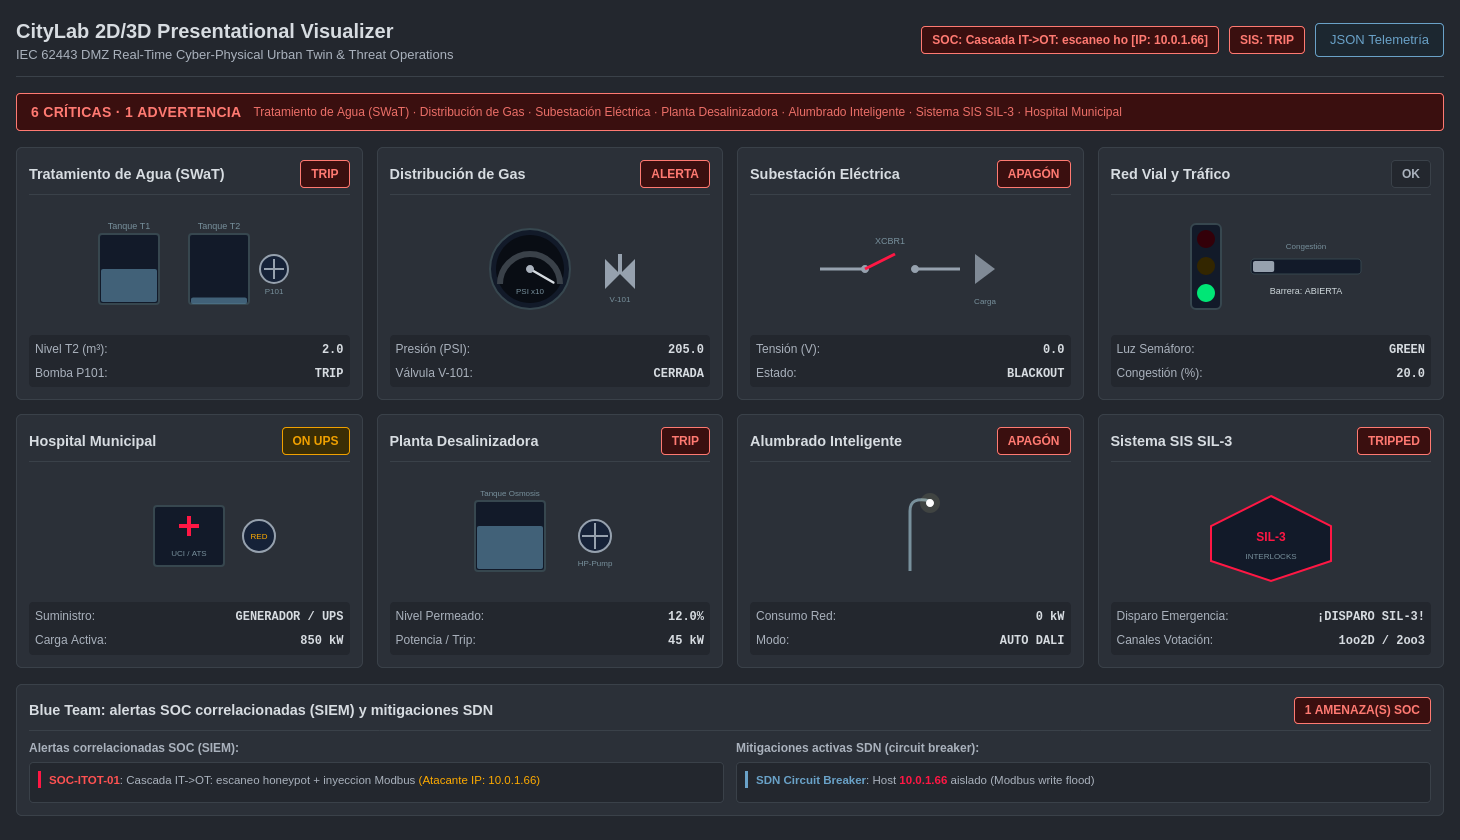
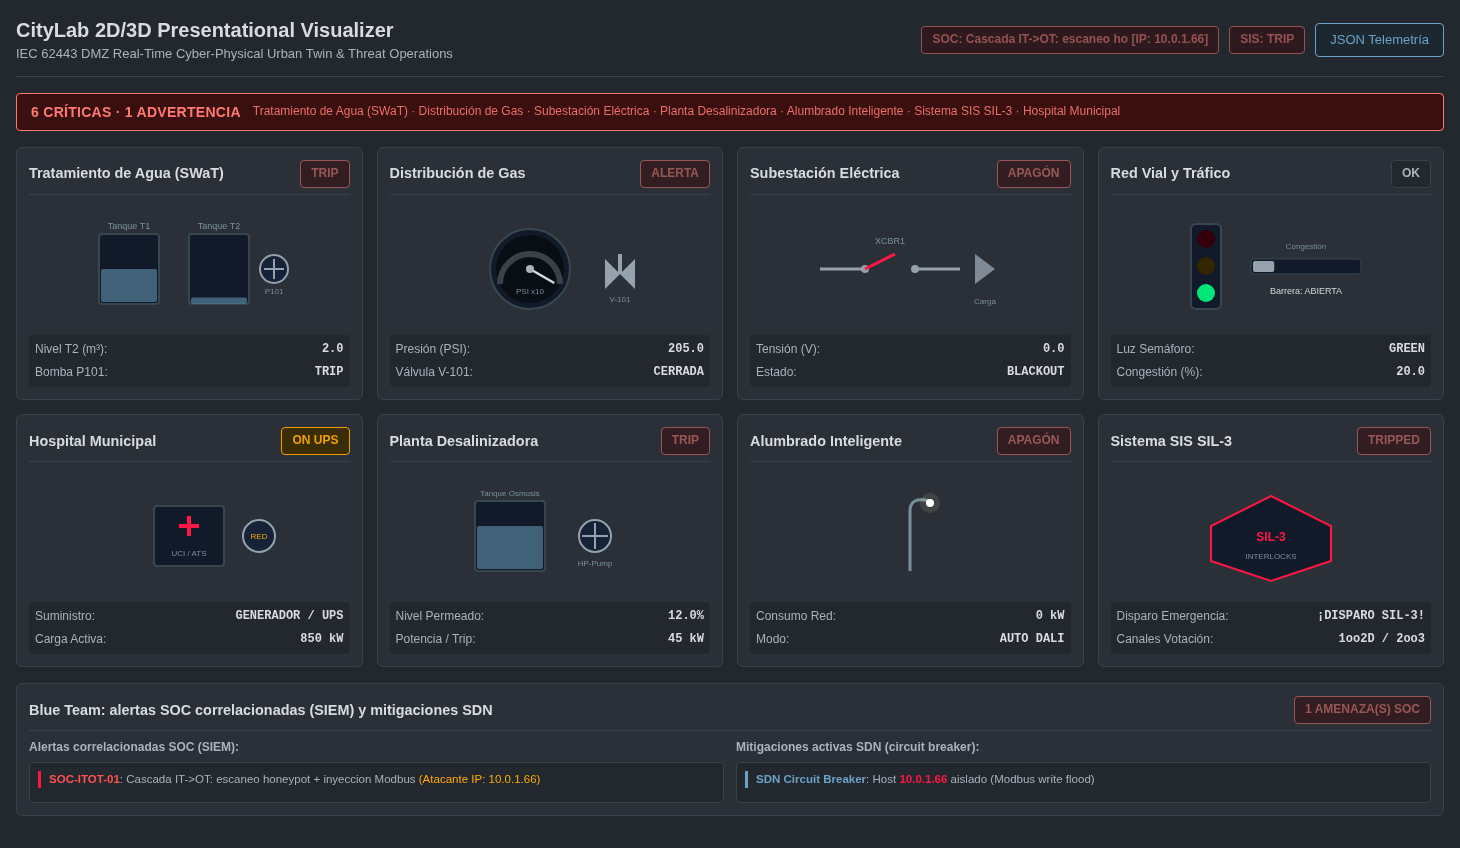
test(ui): E2E Playwright reproducible de la banda de alarmas ISA-101 y sus capturas
Agrega scripts/ui_e2e_test.py: verificacion de UI autocontenida que levanta
viz_server y hmi_server (sin root ni Mininet), los alimenta con un stub SCADA
embebido, y comprueba con Playwright el camino de polling en vivo: la banda L1
transiciona gris->rojo/ambar->gris al cambiar el estado del servidor, y los
mimicos siempre-activos quedan muteados mientras el verde del semaforo se
preserva (16 verificaciones). Con --screenshots regenera las tres imagenes del
README ajustadas al contenido, tomando la de alarma con la cascada ya renderizada.

El driver corre aislado en un entorno uv con Playwright/Chromium, sin tocar las
dependencias system-python del proyecto; no forma parte de ./citylab.sh test. El
import de playwright esta diferido dentro de run(), asi que el modulo es seguro
de importar sin el paquete.

Documenta el flujo en docs/UI_TESTING.md con punteros desde CLAUDE.md y el README.
Capturas regeneradas con el propio script para que lo commiteado coincida con lo
documentado.

diff --git a/scripts/ui_e2e_test.py b/scripts/ui_e2e_test.py
@@ -1,0 +1,254 @@
+#!/usr/bin/env python3
+"""Verificación E2E de la UI ISA-101 (banda de alarmas L1 y reserva de color) con Playwright.
+
+Ejercita el camino de polling en vivo: el estado cambia en el servidor y el `fetch` de la
+propia página lo recoge, transicionando la banda L1 gris -> rojo/ámbar -> gris. Cubre el
+Visualizador 2D (`viz_server`) y el HMI Industrial (`hmi_server`).
+
+Los servidores corren bajo este mismo intérprete (solo usan la stdlib más el paquete local
+`network`, vía PYTHONPATH); el driver Playwright corre en el entorno `uv`. Un stub SCADA
+embebido (hilo HTTP en el propio proceso) alimenta al HMI y se conmuta a LOSS_OF_VIEW para
+probar la transición, sin depender del laboratorio Mininet ni de root.
+
+Requisitos (una sola vez, requiere red):
+    uv run --with playwright -- playwright install chromium
+
+Uso:
+    uv run --with playwright -- python scripts/ui_e2e_test.py              # corre las aserciones
+    uv run --with playwright -- python scripts/ui_e2e_test.py --screenshots docs/img
+
+Sale con código 1 si alguna aserción falla. No forma parte de `./citylab.sh test` (la suite
+unitaria se mantiene sin dependencias de navegador); es una verificación de UI opcional.
+"""
+from __future__ import annotations
+
+import argparse
+import json
+import os
+import subprocess
+import sys
+import threading
+import time
+import urllib.request
+from http.server import BaseHTTPRequestHandler, HTTPServer
+from pathlib import Path
+
+ROOT = Path(__file__).resolve().parent.parent
+VIZ_PORT, HMI_PORT, STUB_PORT = 18190, 18191, 18192
+
+# Stub SCADA en proceso: sirve telemetría normal, o LOSS_OF_VIEW en el sector de agua cuando
+# el test conmuta el modo. Deja al HMI mostrar SCADA ONLINE sin el laboratorio real.
+_STUB_MODE = {"mode": "normal"}
+_NORMAL_TELEMETRY = {
+    "status": "ONLINE",
+    "sectors": {
+        "water": {"status": "ONLINE", "t1_level": 10.0, "t2_level": 15.0, "actuator_running": True},
+        "gas": {"status": "ONLINE", "pressure_psi": 145.0, "actuator_running": True},
+        "elec": {"status": "ONLINE", "grid_voltage": 230.0, "actuator_running": True},
+        "transport": {"status": "ONLINE", "traffic_light": 2, "actuator_running": True},
+    },
+}
+
+
+class _StubHandler(BaseHTTPRequestHandler):
+    def do_GET(self) -> None:
+        data = json.loads(json.dumps(_NORMAL_TELEMETRY))
+        if _STUB_MODE["mode"] == "lov":
+            data["sectors"]["water"]["status"] = "LOSS_OF_VIEW"
+        body = json.dumps(data).encode("utf-8")
+        self.send_response(200)
+        self.send_header("Content-Type", "application/json")
+        self.send_header("Content-Length", str(len(body)))
+        self.end_headers()
+        self.wfile.write(body)
+
+    def log_message(self, *args) -> None:
+        pass
+
+
+def _start_stub() -> HTTPServer:
+    srv = HTTPServer(("127.0.0.1", STUB_PORT), _StubHandler)
+    threading.Thread(target=srv.serve_forever, daemon=True).start()
+    return srv
+
+
+def _wait_http(url: str, tries: int = 200) -> bool:
+    for _ in range(tries):
+        try:
+            urllib.request.urlopen(url, timeout=0.5)
+            return True
+        except Exception:
+            time.sleep(0.05)
+    return False
+
+
+def _post(url: str, payload: dict) -> None:
+    req = urllib.request.Request(url, data=json.dumps(payload).encode(),
+                                 headers={"Content-Type": "application/json"})
+    urllib.request.urlopen(req, timeout=2).close()
+
+
+def _shot(page, path: str) -> None:
+    """Captura ajustada al contenido: mide el alto real con un viewport corto (scrollHeight
+    queda clampeado al viewport si el contenido es más bajo) y lo fija antes de capturar, así
+    no queda lienzo muerto al pie. La rejilla reflota por ancho, no por alto."""
+    page.set_viewport_size({"width": 1460, "height": 200})
+    height = page.evaluate("Math.ceil(document.documentElement.scrollHeight)")
+    page.set_viewport_size({"width": 1460, "height": height})
+    page.screenshot(path=path)
+
+
+def _spawn(script: str, *args: str) -> subprocess.Popen:
+    cmd = [sys.executable, str(ROOT / "network" / script), "--host", "127.0.0.1", *args]
+    return subprocess.Popen(cmd, cwd=str(ROOT), env=dict(os.environ, PYTHONPATH=str(ROOT)),
+                            stdout=subprocess.DEVNULL, stderr=subprocess.DEVNULL)
+
+
+# Cascada IT->OT usada tanto por las aserciones como por la captura de alarma.
+_CASCADE = {"sectors": {"water": {"alert": True, "pump_running": False, "tank_level": 2.0},
+                        "gas": {"alert": True, "pressure_psi": 205.0, "valve_open": False},
+                        "elec": {"blackout": True, "grid_voltage": 0.0},
+                        "hospital": {"generator_active": True},
+                        "desal": {"pump_trip": True, "tank_level_pct": 12.0, "power_kw": 0},
+                        "lighting": {"power_kw": 0, "blackout": True},
+                        "safety": {"sis_trip": True}}}
+_SOC = {"alert_id": "SOC-ITOT-01", "name": "Cascada IT->OT: escaneo honeypot + inyeccion Modbus",
+        "attacker_ip": "10.0.1.66", "severity": "CRITICAL"}
+_SDN = {"mechanism": "SDN Circuit Breaker", "offending_ip": "10.0.1.66",
+        "action": "ISOLATE", "rule": "Modbus write flood"}
+_NORMAL = {"sectors": {"water": {"alert": False, "pump_running": True},
+                       "gas": {"alert": False, "pressure_psi": 145.0, "valve_open": True},
+                       "elec": {"blackout": False, "grid_voltage": 230.0},
+                       "hospital": {"generator_active": False},
+                       "desal": {"pump_trip": False, "tank_level_pct": 75.0, "power_kw": 45},
+                       "lighting": {"power_kw": 120, "blackout": False},
+                       "safety": {"sis_trip": False}}}
+
+
+def run(screenshots_dir: str | None) -> int:
+    results: list[tuple[str, bool]] = []
+
+    def check(name: str, cond: bool) -> None:
+        results.append((name, bool(cond)))
+        print(("PASS " if cond else "FAIL ") + name)
+
+    stub = _start_stub()
+    procs = [
+        _spawn("viz_server.py", "--port", str(VIZ_PORT)),
+        _spawn("hmi_server.py", "--port", str(HMI_PORT), "--scada-url", f"http://127.0.0.1:{STUB_PORT}"),
+    ]
+    viz_url = f"http://127.0.0.1:{VIZ_PORT}"
+    hmi_url = f"http://127.0.0.1:{HMI_PORT}"
+    try:
+        assert _wait_http(viz_url + "/"), "viz_server no levantó"
+        assert _wait_http(hmi_url + "/"), "hmi_server no levantó"
+
+        from playwright.sync_api import sync_playwright
+
+        with sync_playwright() as p:
+            browser = p.chromium.launch(headless=True)
+            page = browser.new_page(viewport={"width": 1460, "height": 900})
+
+            # ---------------- Visualizador 2D ----------------
+            page.goto(viz_url + "/")
+            page.wait_for_load_state("networkidle")
+
+            if screenshots_dir:
+                _shot(page, str(Path(screenshots_dir) / "viz-normal.png"))
+
+            check("viz banda normal = gris (alarm-band-ok)",
+                  "alarm-band-ok" in (page.locator("#alarm-band").get_attribute("class") or ""))
+            check("viz banda normal = SIN ALARMAS ACTIVAS",
+                  page.locator("#alarm-band-count").inner_text().strip() == "SIN ALARMAS ACTIVAS")
+            check("viz aguja de gas muteada (#d7dce1)",
+                  page.eval_on_selector("#svg-gas-needle", "e => e.getAttribute('stroke')") == "#d7dce1")
+            check("viz manómetro de gas sin arcos de semáforo",
+                  page.eval_on_selector_all("path[stroke='#00e676'], path[stroke='#ff1744'][stroke-width='6']",
+                                            "els => els.length") == 0)
+            check("viz carga/busbar muteado (#96a1ae)",
+                  page.eval_on_selector("path[d='M175 40 L195 55 L175 70 Z']",
+                                        "e => e.getAttribute('fill')") == "#96a1ae")
+            check("viz verde semántico del semáforo preservado (#00e676)",
+                  page.eval_on_selector("#tl-green", "e => e.getAttribute('fill')") == "#00e676")
+
+            _post(viz_url + "/api/viz/update", _CASCADE)
+            _post(viz_url + "/api/viz/soc", _SOC)
+            _post(viz_url + "/api/viz/sdn", _SDN)
+            page.wait_for_selector("#alarm-band.alarm-band-crit", timeout=6000)
+            if screenshots_dir:
+                page.wait_for_timeout(200)
+                _shot(page, str(Path(screenshots_dir) / "viz-alarm.png"))
+            count_txt = page.locator("#alarm-band-count").inner_text()
+            check("viz banda -> crítica en cascada en vivo", "CRÍTICA" in count_txt)
+            check("viz banda cuenta 6 críticas + 1 advertencia",
+                  "6 CRÍTICAS" in count_txt and "1 ADVERTENCIA" in count_txt)
+            check("viz banda nombra el área afectada (Agua)",
+                  "Agua" in page.locator("#alarm-band-areas").inner_text())
+
+            _post(viz_url + "/api/viz/update", _NORMAL)
+            page.wait_for_selector("#alarm-band.alarm-band-ok", timeout=6000)
+            check("viz banda -> gris de nuevo al despejar",
+                  "alarm-band-ok" in (page.locator("#alarm-band").get_attribute("class") or ""))
+
+            # ---------------- HMI Industrial ----------------
+            _STUB_MODE["mode"] = "normal"
+            page.goto(hmi_url + "/")
+            page.wait_for_load_state("networkidle")
+            page.wait_for_selector("#badge-scada.badge-ok", timeout=6000)
+
+            if screenshots_dir:
+                _shot(page, str(Path(screenshots_dir) / "hmi.png"))
+
+            check("hmi banda normal = gris",
+                  "alarm-band-ok" in (page.locator("#alarm-band").get_attribute("class") or ""))
+            check("hmi busbar ya no es ámbar (#ffeb3b ausente)",
+                  page.eval_on_selector_all("[stroke='#ffeb3b']", "els => els.length") == 0)
+            check("hmi título de consola no es ámbar fijo",
+                  page.eval_on_selector(".alarm-panel h3", "e => getComputedStyle(e).color") != "rgb(240, 160, 0)")
+
+            _STUB_MODE["mode"] = "lov"
+            page.wait_for_selector("#alarm-band.alarm-band-crit", timeout=8000)
+            check("hmi banda -> crítica en loss-of-view en vivo",
+                  "CRÍTICA" in page.locator("#alarm-band-count").inner_text())
+            check("hmi banda nombra el área WATER",
+                  "WATER" in page.locator("#alarm-band-areas").inner_text())
+
+            _STUB_MODE["mode"] = "normal"
+            page.wait_for_selector("#alarm-band.alarm-band-ok", timeout=8000)
+            check("hmi banda -> gris de nuevo tras recuperación",
+                  "alarm-band-ok" in (page.locator("#alarm-band").get_attribute("class") or ""))
+
+            browser.close()
+    finally:
+        stub.shutdown()
+        for pr in procs:
+            pr.terminate()
+        for pr in procs:
+            try:
+                pr.wait(timeout=5)
+            except Exception:
+                pr.kill()
+
+    passed = sum(1 for _, ok in results if ok)
+    total = len(results)
+    print(f"\n==== {passed}/{total} verificaciones OK ====")
+    if screenshots_dir:
+        print(f"Capturas escritas en {screenshots_dir}/ (viz-normal.png, viz-alarm.png, hmi.png)")
+    if passed != total:
+        print("FALLOS:", [n for n, ok in results if not ok])
+        return 1
+    return 0
+
+
+def main() -> int:
+    parser = argparse.ArgumentParser(description="E2E Playwright de la UI ISA-101 (banda de alarmas + reserva de color).")
+    parser.add_argument("--screenshots", metavar="DIR",
+                        help="Además de verificar, regenera viz-normal/viz-alarm/hmi .png en DIR.")
+    args = parser.parse_args()
+    if args.screenshots:
+        Path(args.screenshots).mkdir(parents=True, exist_ok=True)
+    return run(args.screenshots)
+
+
+if __name__ == "__main__":
+    sys.exit(main())

diff --git a/docs/UI_TESTING.md b/docs/UI_TESTING.md
@@ -1,0 +1,62 @@
+# Pruebas de UI y regeneración de capturas (ISA-101)
+
+Las superficies web de supervisión (Visualizador 2D `viz_server` y HMI Industrial
+`hmi_server`) se verifican con un test E2E de navegador y se documentan con capturas.
+Ambas cosas salen de un único script reproducible: `scripts/ui_e2e_test.py`.
+
+El test ejercita el **camino de polling en vivo**: cambia el estado en el servidor y
+comprueba que el `fetch` de la propia página lo recoge y transiciona la banda de alarmas
+L1. Esto cubre lo que una captura estática no puede, porque el estado de la banda depende
+de JavaScript asíncrono, no del HTML servido.
+
+## Requisitos
+
+El driver usa [Playwright](https://playwright.dev) sobre Chromium, aislado en un entorno
+[`uv`](https://docs.astral.sh/uv/) para no tocar las dependencias system-python del
+proyecto (`pymodbus`, etc.). Los servidores corren bajo el mismo intérprete y solo usan la
+stdlib más el paquete local `network`.
+
+Instalación del navegador (una sola vez, **requiere red**):
+
+```bash
+uv run --with playwright -- playwright install chromium
+```
+
+Esto es una herramienta de verificación para desarrollo. No forma parte de
+`./citylab.sh test` (la suite unitaria se mantiene sin dependencias de navegador) ni del
+runtime airgapped del laboratorio.
+
+## Correr el test E2E
+
+```bash
+uv run --with playwright -- python scripts/ui_e2e_test.py
+```
+
+No necesita root, Mininet ni el laboratorio: el script levanta `viz_server` y `hmi_server`
+en puertos de prueba (`18190`/`18191`), alimenta al HMI con un stub SCADA embebido
+(`127.0.0.1:18192`) y lo desmantela todo al terminar. Sale con código `1` si alguna
+verificación falla.
+
+Qué comprueba (16 verificaciones):
+
+- **Banda L1 en vivo (viz).** Gris «SIN ALARMAS ACTIVAS» en normal; tras inyectar una
+  cascada IT→OT por `POST /api/viz/update`, el poll de 1 s la vuelve roja con
+  «6 CRÍTICAS · 1 ADVERTENCIA» nombrando las áreas; vuelve a gris al despejar.
+- **Banda L1 en vivo (HMI).** Conmuta el stub SCADA a `LOSS_OF_VIEW`; el poll de 2 s vuelve
+  la banda roja nombrando `WATER`; vuelve a gris tras la recuperación.
+- **Reserva de color ISA-101.** La aguja del manómetro de gas está muteada, el gauge no
+  tiene arcos de semáforo, la carga/busbar están en gris y el busbar del HMI ya no es
+  ámbar. Se confirma que los colores semánticos (verde del semáforo) se preservan.
+
+## Regenerar las capturas del README
+
+Las imágenes de `docs/img/` (`viz-normal.png`, `viz-alarm.png`, `hmi.png`) salen del mismo
+script. Cuando cambie la UI, regéneralas con:
+
+```bash
+uv run --with playwright -- python scripts/ui_e2e_test.py --screenshots docs/img
+```
+
+El modo `--screenshots` corre las mismas aserciones y además captura las tres vistas
+ajustadas al contenido (ancho 1460 px). La captura de alarma se toma con la cascada ya
+renderizada, así que refleja el estado real de la banda, no el HTML inicial.

diff --git a/CLAUDE.md b/CLAUDE.md
@@ -35,6 +35,7 @@ The `run_phase*.sh` scripts are now internal implementation invoked by `up`; do 
   PYTHONPATH=. python3 -m pytest attacker/tests/test_scenario_21_loss_of_view.py::TestScenario21LossOfView::test_hmi_detects_loss_of_view_alarm
   ```
 - **The five test suites** are `network/tests`, `plc/tests`, `physical`, `helics_sim`, `attacker/tests` (265 tests passing deterministically).
+- **UI browser test** (optional, not part of `./citylab.sh test`): `scripts/ui_e2e_test.py` drives the web dashboards with Playwright to verify the ISA-101 alarm band and color reservation against the live polling path, and regenerates the README screenshots. It needs no root/Mininet (it spawns the servers and an embedded SCADA stub itself). One-time setup needs network: `uv run --with playwright -- playwright install chromium`. Run with `uv run --with playwright -- python scripts/ui_e2e_test.py` (add `--screenshots docs/img` to refresh images). See `docs/UI_TESTING.md`.
 - **Bring up the full lab** (requires root — Mininet + Open vSwitch): `sudo ./citylab.sh up`. Lower-level entry points, when you need them directly:
   ```bash
   sudo python3 network/topology.py          # interactive Mininet CLI

diff --git a/README.md b/README.md
@@ -36,6 +36,8 @@ Una banda de alarmas L1 encabeza ambas superficies web y resume la situación po
 
 ![HMI Industrial de CityLab con diagramas P&ID y barra de mando operacional](docs/img/hmi.png)
 
+> Estas capturas y el comportamiento en vivo de la banda de alarmas se verifican y regeneran con `scripts/ui_e2e_test.py` (Playwright). Ver [`docs/UI_TESTING.md`](docs/UI_TESTING.md).
+
 ---
 
 ## ✅ Requisitos Previos
